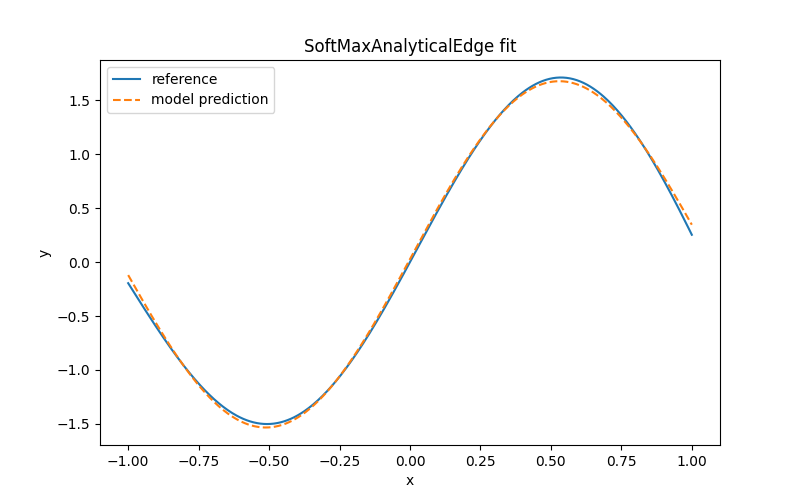
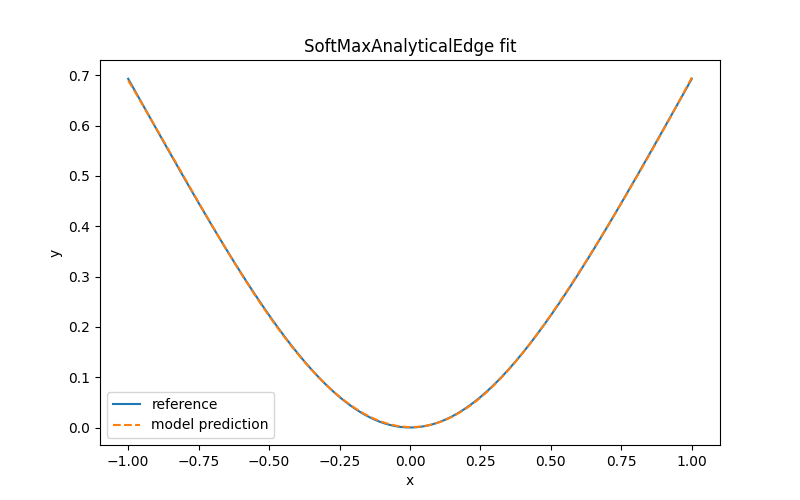
s

diff --git a/RVE_homogenization_NeoHookean_using_Kratos/run_ICKAN_surrogate.py b/RVE_homogenization_NeoHookean_using_Kratos/run_ICKAN_surrogate.py
@@ -313,9 +313,9 @@ TRAIN_KAN(
     mixed_sovolev_W_loss_weight = 0.05, # 1 is only W loss, 0 is only S loss
 
     update_grid = True,
-    grid_update_interval = 5,
-    initial_step_grid_update = 1,
-    final_step_grid_update = 20,
+    grid_update_interval = 10,
+    initial_step_grid_update = 10,
+    final_step_grid_update = 50,
     verbose_interval = 1
 )
 #------------------------------------------------------------------------------------

diff --git a/softmax_analytical_edge/train_edge.py b/softmax_analytical_edge/train_edge.py
@@ -12,8 +12,8 @@ def main():
     # Create dummy dataset: y = x**2
     X = np.linspace(-1.0, 1.0, 500)
 
-    Y = np.sin(3*X) * np.log(X + 5)
-    # Y = np.log(X**2 + 1)
+    # Y = np.sin(3*X) * np.log(X + 5)
+    Y = np.log(X**2 + 1)
     # Y = np.sin(X*2)
     # Y = np.sin(2*(X-5))
 